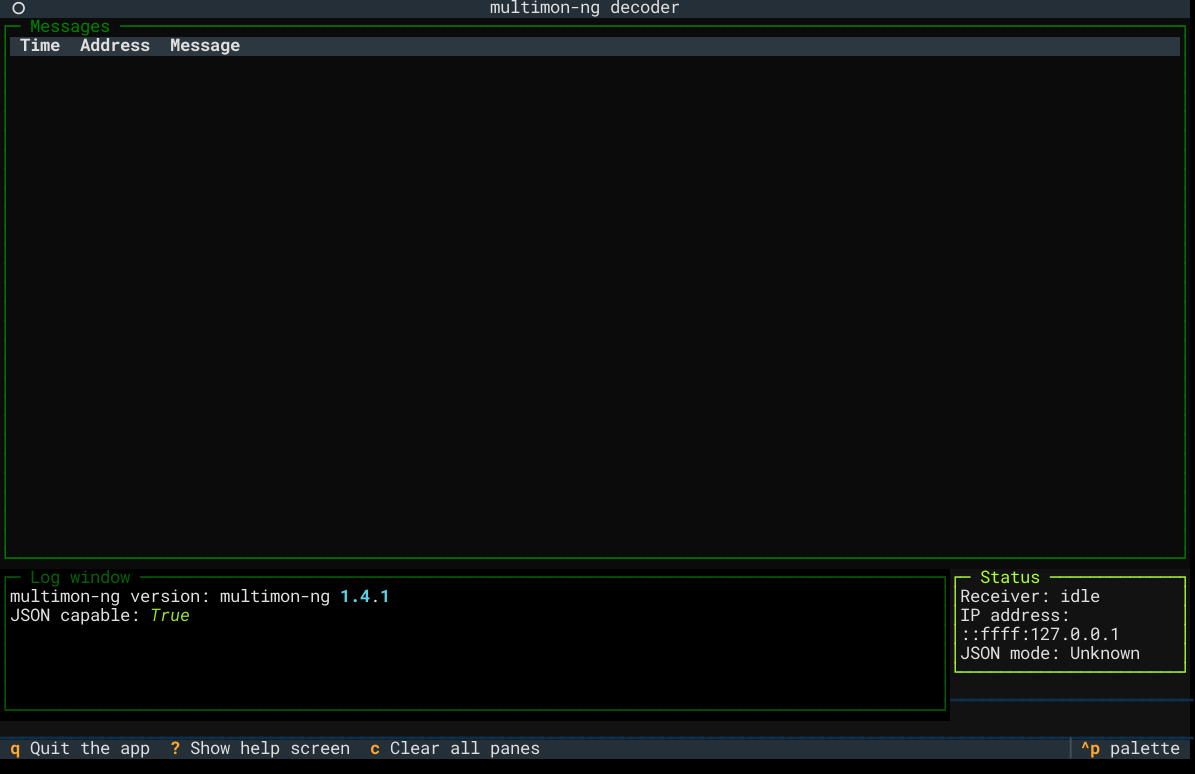
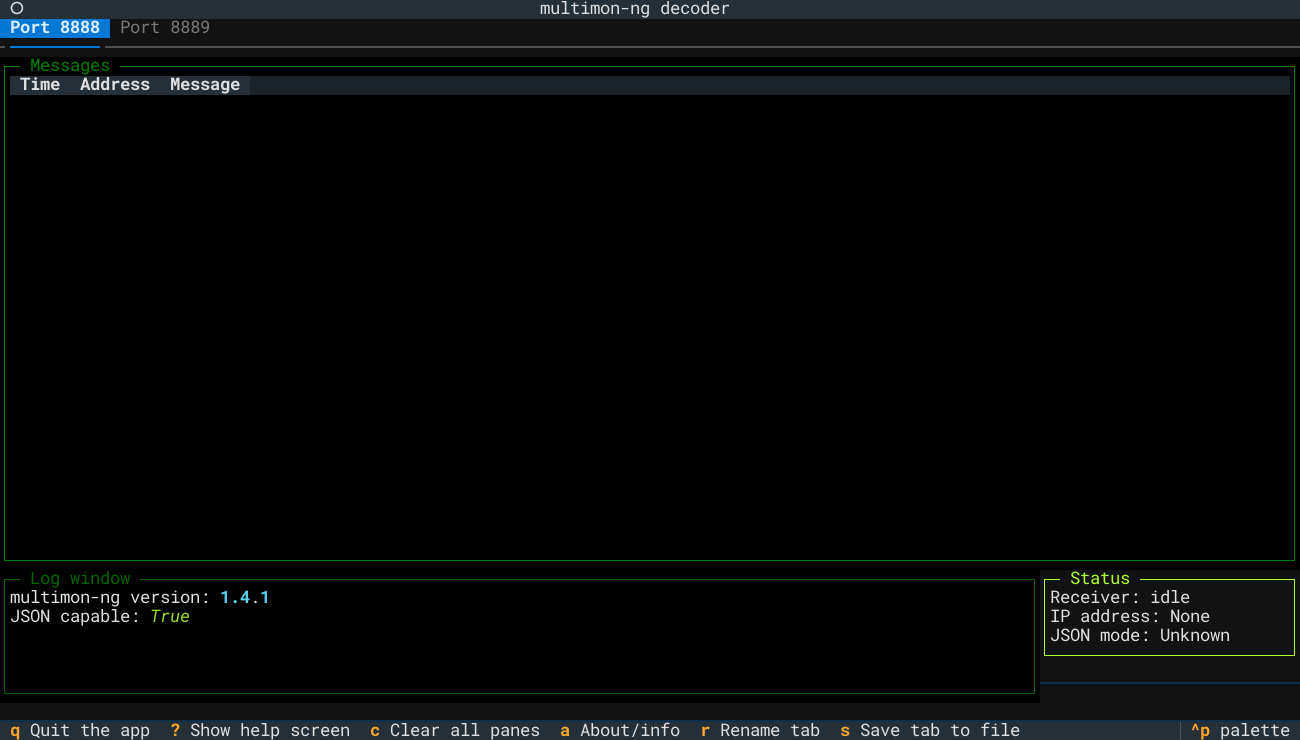
Update README with multi-port tabs, capcode DB, save-to-file docs + updated screenshots

Changed region(s): [[0.0, 0.0, 1.0, 1.0]]

diff --git a/README.md b/README.md
@@ -19,6 +19,9 @@ You can also use it within a web browser!
   * [How to use it](#how-to-use-it)
     * [JSON detection](#json-detection)
     * [sox conversion mode](#sox-conversion-mode)
+    * [Multiple ports and tabs](#multiple-ports-and-tabs)
+    * [Capcode database](#capcode-database)
+    * [Save tab to file](#save-tab-to-file)
   * [Example screenshot](#example-screenshot)
   * [Supported Python versions](#supported-python-versions)
 <!-- TOC -->
@@ -71,7 +74,7 @@ See `mmng-ui --help` for CLI options.
 
 Run `mmng-ui`, and you'll be greeted with this screen:
 
-![screenshot](https://raw.githubusercontent.com/lingfish/mmng-ui/refs/heads/main/docs/initial%20screen.png)
+![screenshot](/docs/initial%20screen.png)
 
 Notice in the status pane, it says "Receiver: idle" -- it is now listening for UDP packets sent to the default port
 of 8888.
@@ -113,11 +116,62 @@ With release 1.3.0, you can use the `--sox-rate` (optionally with `--sox-binary`
 an instance of `sox` in the decoding pipeline, before `multimon-ng`. You can use the same format as `sox` accepts,
 for example, `48k`, or `32000`.
 
+### Multiple ports and tabs
+
+You can listen on multiple UDP ports simultaneously by passing `--port` (or `-p`) more than once:
+
+```shell
+mmng-ui --port 8888 --port 8889 --port 8890
+```
+
+Each port gets its own tab with an independent status pane, sparkline, and message log.  At launch you can name a tab
+using `--port <port>=<name>` or `--port <port>:<name>`:
+
+```shell
+mmng-ui --port 8888=Primary --port 8889=Secondary
+```
+
+You can also rename the active tab at any time by pressing `r`.
+
+### Capcode database
+
+Pass a JSON or CSV file of known capcodes with `--capcodes` (or `-k`):
+
+```shell
+mmng-ui --capcodes /path/to/capcodes.json
+```
+
+The file format is an array of objects with `address`, `label`, and optional `icon` and `colour` fields:
+
+```json
+[
+  { "address": "1234567", "label": "Fire Dept",     "icon": "fire",     "colour": "red" },
+  { "address": "7654321", "label": "Ambulance",      "icon": "ambulance" },
+  { "address": "1111111", "label": "Local Council" }
+]
+```
+
+When a message's capcode matches a known entry, its alias is shown in the configured colour with an optional emoji
+prefix.  Unmatched capcodes display the raw address as before.
+
+CSV format is also supported:
+
+```csv
+address,label,icon,colour
+1234567,Fire Dept,fire,red
+7654321,Ambulance,ambulance,
+```
+
+### Save tab to file
+
+Press `s` while the app is running to open the save dialog.  You can choose a filename and export format -- CSV,
+Markdown, or JSON -- to save all messages from the active tab.
+
 ## Example screenshot
 
 Here's what a screen full of decodes might look like:
 
-![screenshot](https://raw.githubusercontent.com/lingfish/mmng-ui/refs/heads/main/docs/working%20screen.png)
+![screenshot](/docs/working%20screen.png)
 
 ## Supported Python versions
 
